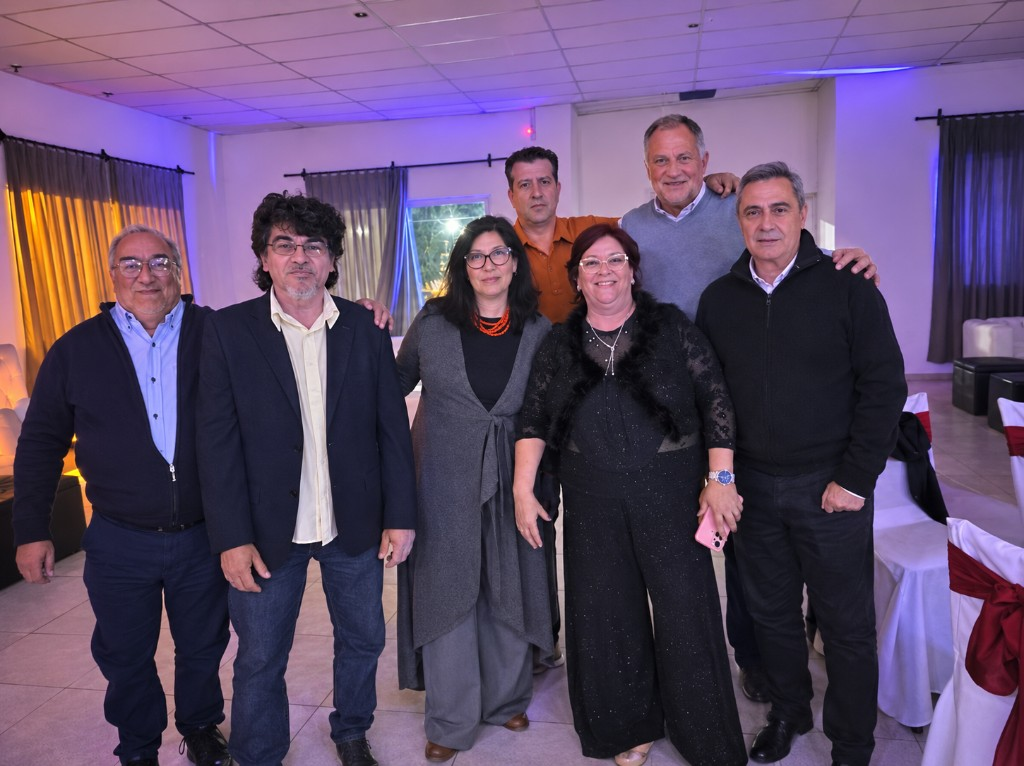
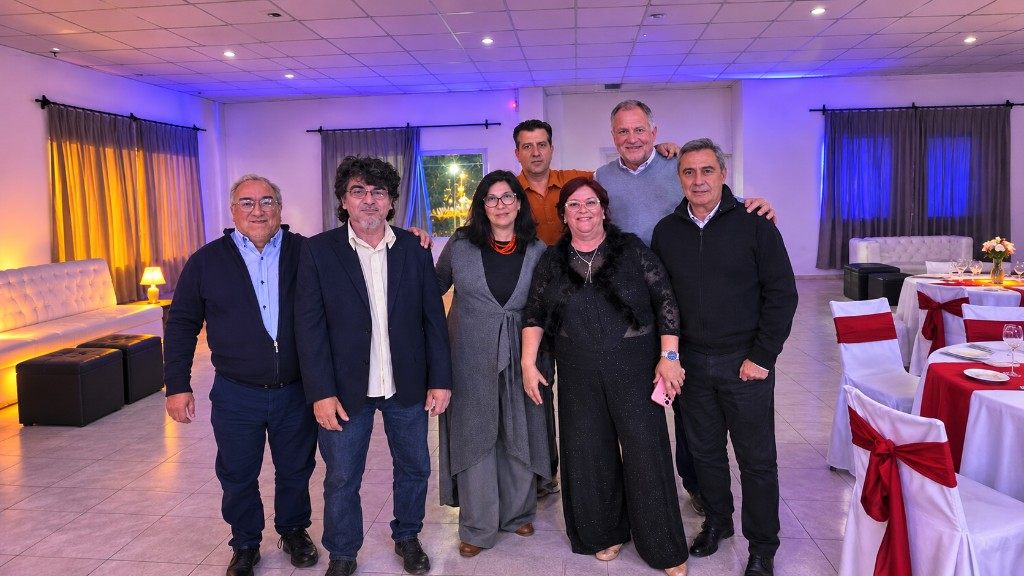
Carrusel: nueva foto Cena 2026 al inicio, sin bordes negros.

diff --git a/components/home/hero-section.tsx b/components/home/hero-section.tsx
@@ -26,12 +26,20 @@ type HeroSlide = {
   src: string
   alt: string
   caption: string
-  /** cover recorta; contain muestra la foto completa (mejor para grupales). */
-  fit?: "cover" | "contain"
   objectPosition?: string
 }
 
 const HERO_SLIDES: HeroSlide[] = [
+  {
+    src: "/images/carousel/cena-martilleros-2026-1.jpg",
+    alt: "Cena de Martilleros 2026 — Colegio de Martilleros de Mendoza",
+    caption: "Cena de Martilleros 2026",
+  },
+  {
+    src: "/images/carousel/cena-martilleros-2026-2.jpg",
+    alt: "Cena de Martilleros 2026 — Colegio de Martilleros de Mendoza",
+    caption: "Cena de Martilleros 2026",
+  },
   {
     src: "/images/carousel/comision-directiva-2024-2026.png",
     alt: "Comisión directiva 2024-2026 del Colegio de Martilleros Públicos de Mendoza",
@@ -72,18 +80,6 @@ const HERO_SLIDES: HeroSlide[] = [
     alt: "Presidente y Vicepresidente con la Jefa de la oficina de medidas judiciales",
     caption:
       "Presidente y Vicepresidente con la Jefa de la oficina de medidas judiciales",
-  },
-  {
-    src: "/images/carousel/cena-martilleros-2026-1.jpg",
-    alt: "Cena de Martilleros 2026 — Colegio de Martilleros de Mendoza",
-    caption: "Cena de Martilleros 2026",
-    fit: "contain",
-  },
-  {
-    src: "/images/carousel/cena-martilleros-2026-2.jpg",
-    alt: "Cena de Martilleros 2026 — Colegio de Martilleros de Mendoza",
-    caption: "Cena de Martilleros 2026",
-    fit: "contain",
   },
 ]
 
@@ -300,11 +296,7 @@ export function HeroSection({ intro }: HeroSectionProps) {
                   fill
                   priority={index === TRACK_FIRST}
                   sizes="100vw"
-                  className={cn(
-                    slide.fit === "contain"
-                      ? "object-contain object-center"
-                      : "object-cover object-center"
-                  )}
+                  className="object-cover object-center"
                   style={
                     slide.objectPosition
                       ? { objectPosition: slide.objectPosition }
